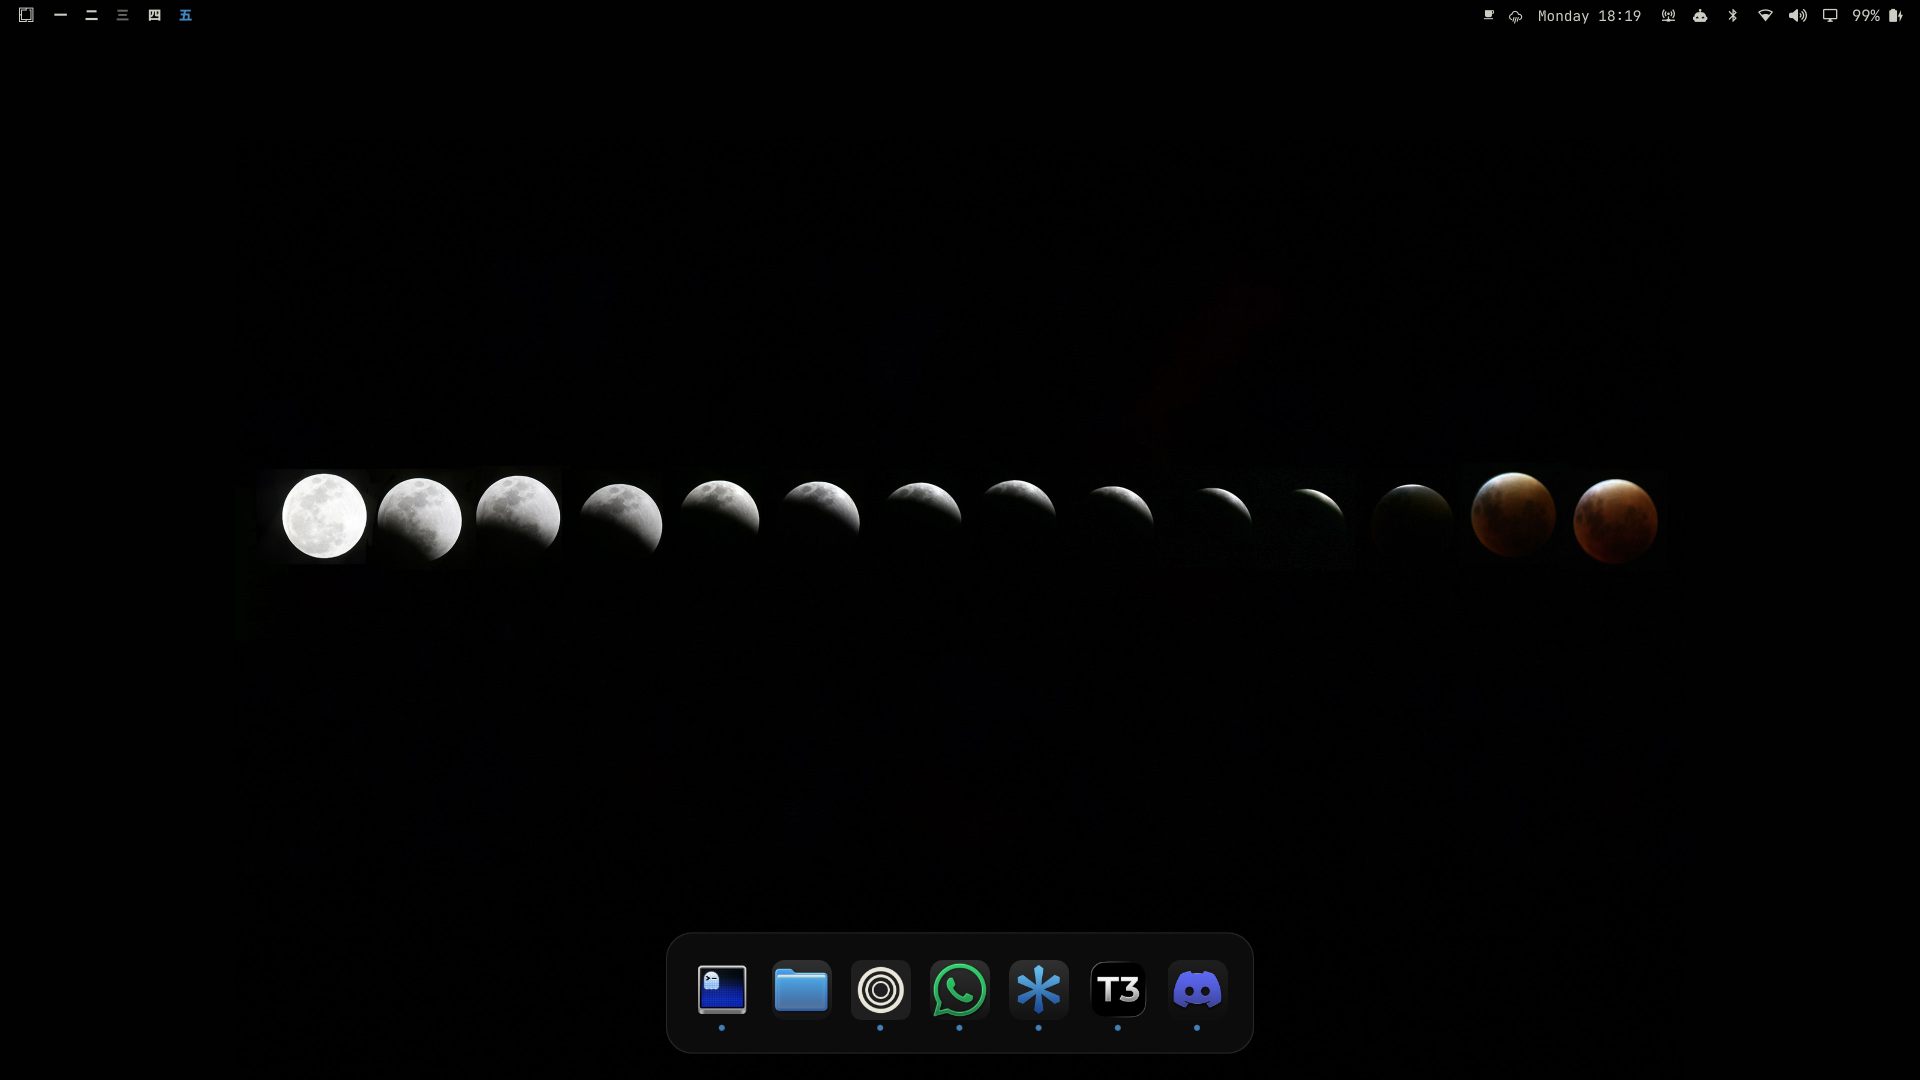
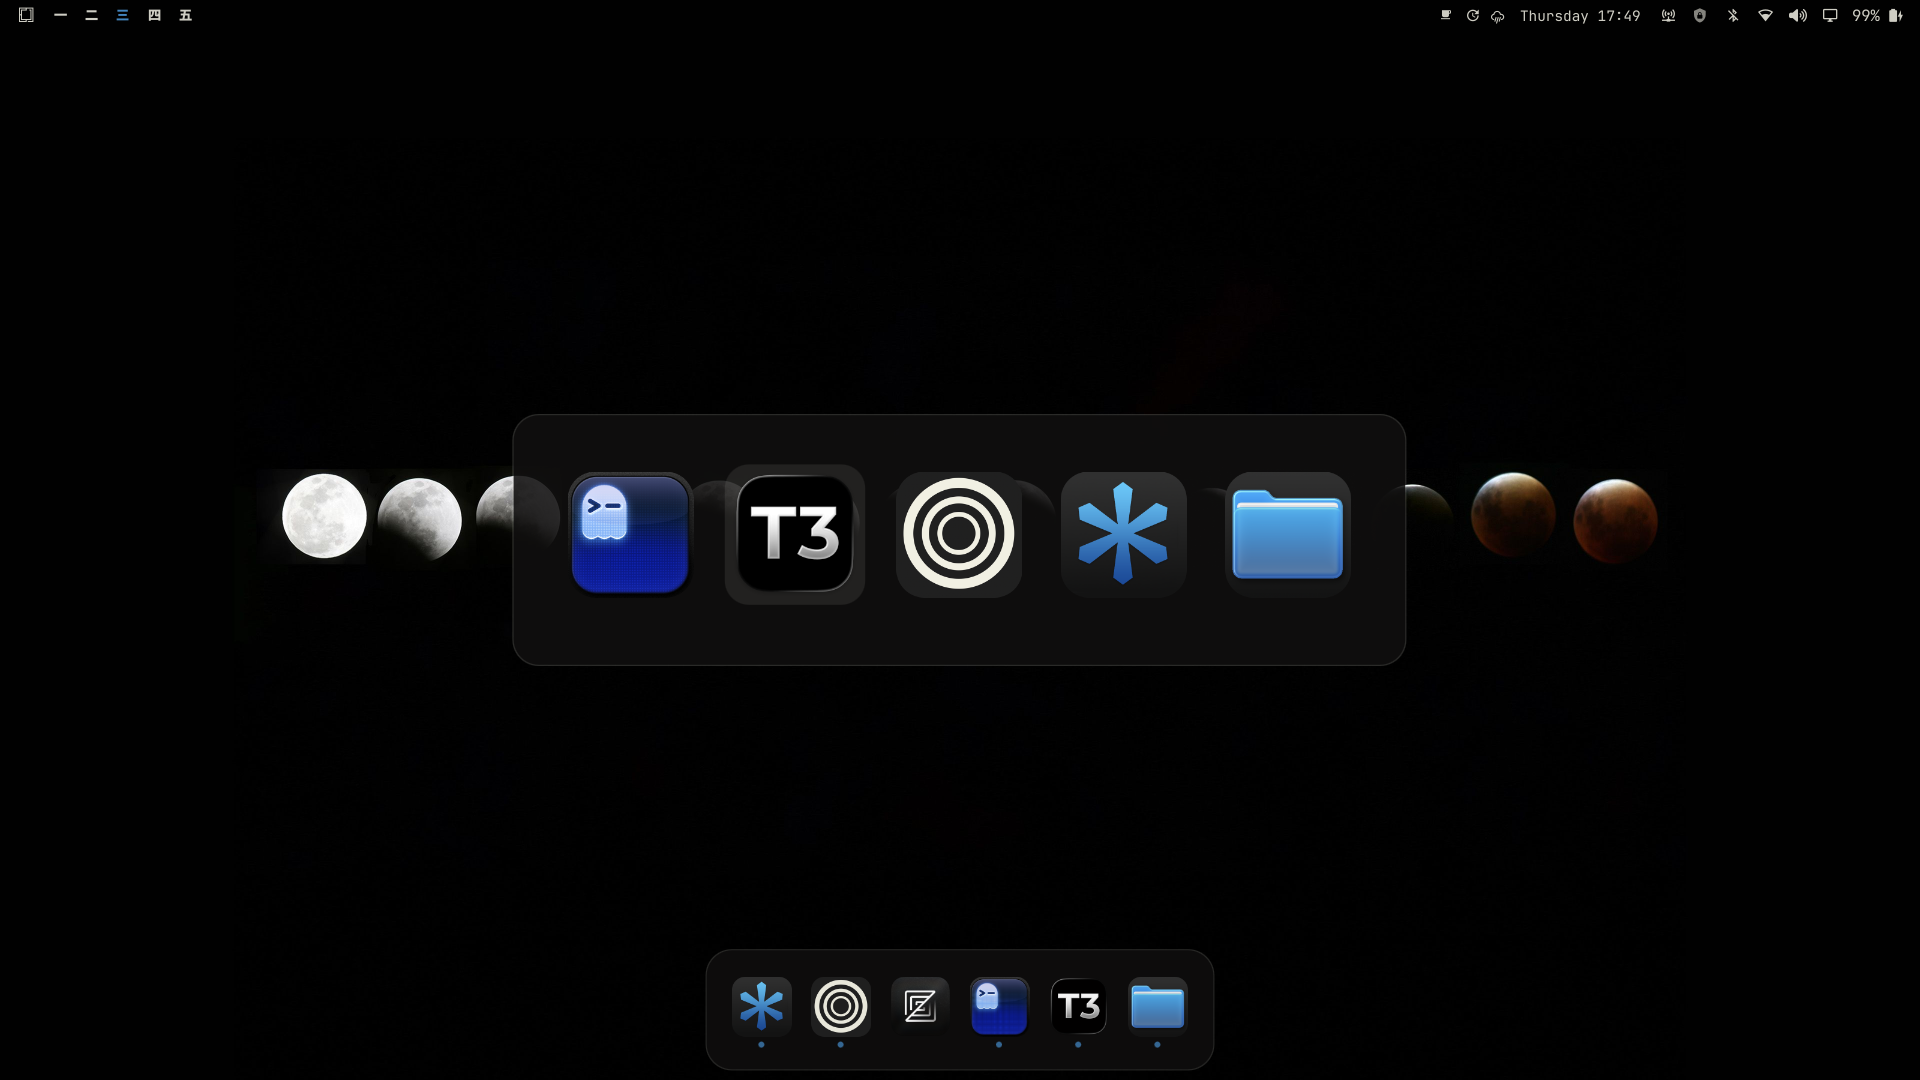
fix: take over ALT+TAB binding with retry; reduce dock bottom margin
- Unbind default ALT+TAB before registering the app-switcher keybinds
- Add retry timer so config-file binds that clobber the eval get re-applied
- Remove alt-tab preview from README and delete unused asset
- Bump to 0.1.11; update description to mention Alt+Tab switcher

Changed region(s): [[0.25, 0.4278, 0.7188, 0.5806], [0.3438, 0.8861, 0.6562, 0.9778], [0.75, 0.0, 0.8438, 0.0306]]

diff --git a/DockPanel.qml b/DockPanel.qml
@@ -47,7 +47,7 @@ Item {
   // slide-away behavior remains available for a later settings toggle.
   property bool autoHide: false
   property int dockHeight: 101
-  property int bottomMargin: 22
+  property int bottomMargin: 8
   property int iconSize: 50
   property real hoveredMouseX: -1
   property string hoveredItemId: ""
@@ -1107,6 +1107,11 @@ Item {
     // Config-file binds load before this runtime eval, so a user's own bind
     // for the same combo takes precedence.
     if (!root.altTabBindProcess.running) root.altTabBindProcess.running = true
+    // The shell applies the config-file binds (tiling.lua etc.) AFTER this
+    // Component.onCompleted eval, clobbering our ALT+TAB takeover. Re-apply
+    // the eval on a short retry window until the config binds have landed;
+    // the eval is idempotent (unbind then bind).
+    root.altTabBindRetry.start()
     Qt.callLater(function() { root.dockReady = true })
   }
 
@@ -1115,9 +1120,25 @@ Item {
     command: ["hyprctl", "eval", "hl.layer_rule({ match = { namespace = \"macos-dock-alt-tab\" }, no_anim = true, animation = \"none\" })"]
   }
 
+  Timer {
+    id: altTabBindRetry
+    interval: 1500
+    repeat: true
+    property int attempts: 0
+    onTriggered: {
+      root.altTabBindRetry.attempts++
+      if (root.altTabBindRetry.attempts > 8) root.altTabBindRetry.stop()
+      else if (!root.altTabBindProcess.running) root.altTabBindProcess.running = true
+    }
+  }
+
   Process {
     id: altTabBindProcess
-    command: ["hyprctl", "eval", "o.bind(\"ALT + GRAVE\", \"App switcher next\", \"omarchy-shell -q macos.dock altTabNext\") o.bind(\"ALT + SHIFT + GRAVE\", \"App switcher prev\", \"omarchy-shell -q macos.dock altTabPrev\")"]
+    // Take over the default Omarchy ALT+TAB window cycling so the macOS-style
+    // app switcher HUD is the primary alt-tab. The defaults bind ALT+TAB twice
+    // (cycle + bring-to-top), so both must be unbound first. ALT+GRAVE stays
+    // as the dedicated fallback combo.
+    command: ["hyprctl", "eval", "hl.unbind(\"ALT + TAB\") hl.unbind(\"ALT + SHIFT + TAB\") o.bind(\"ALT + TAB\", \"App switcher next\", \"omarchy-shell -q macos.dock altTabNext\") o.bind(\"ALT + SHIFT + TAB\", \"App switcher prev\", \"omarchy-shell -q macos.dock altTabPrev\") o.bind(\"ALT + GRAVE\", \"App switcher next\", \"omarchy-shell -q macos.dock altTabNext\") o.bind(\"ALT + SHIFT + GRAVE\", \"App switcher prev\", \"omarchy-shell -q macos.dock altTabPrev\")"]
   }
 
   PanelWindow {

diff --git a/README.md b/README.md
@@ -4,10 +4,6 @@ A compact, bottom-centered macOS-inspired dock plugin for Omarchy.
 
 ![Omarchy macOS dock preview](assets/dock-preview.png)
 
-### Alt+Tab application switcher
-
-![Alt+Tab application switcher preview](assets/alt-tab-preview.png)
-
 ## Features
 
 - Glassy floating dock surface
